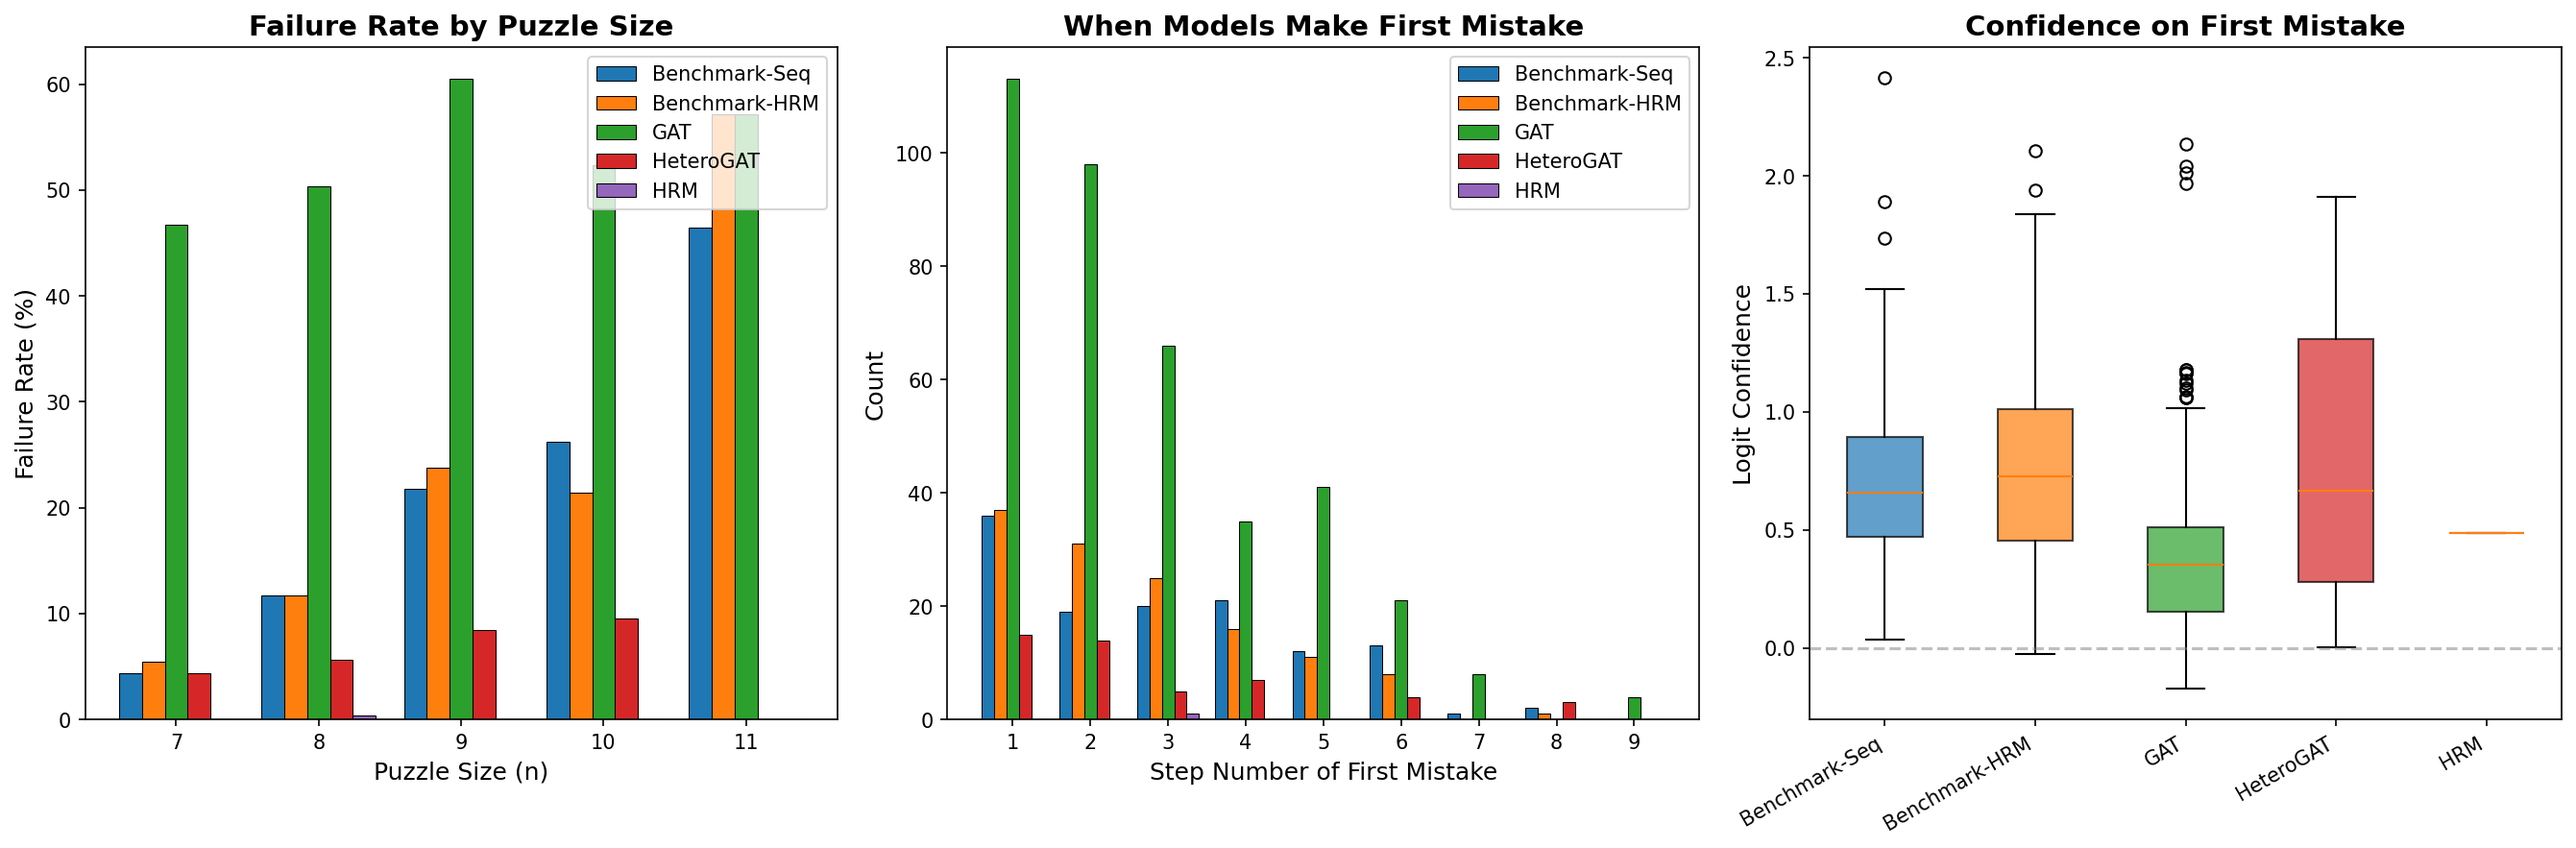
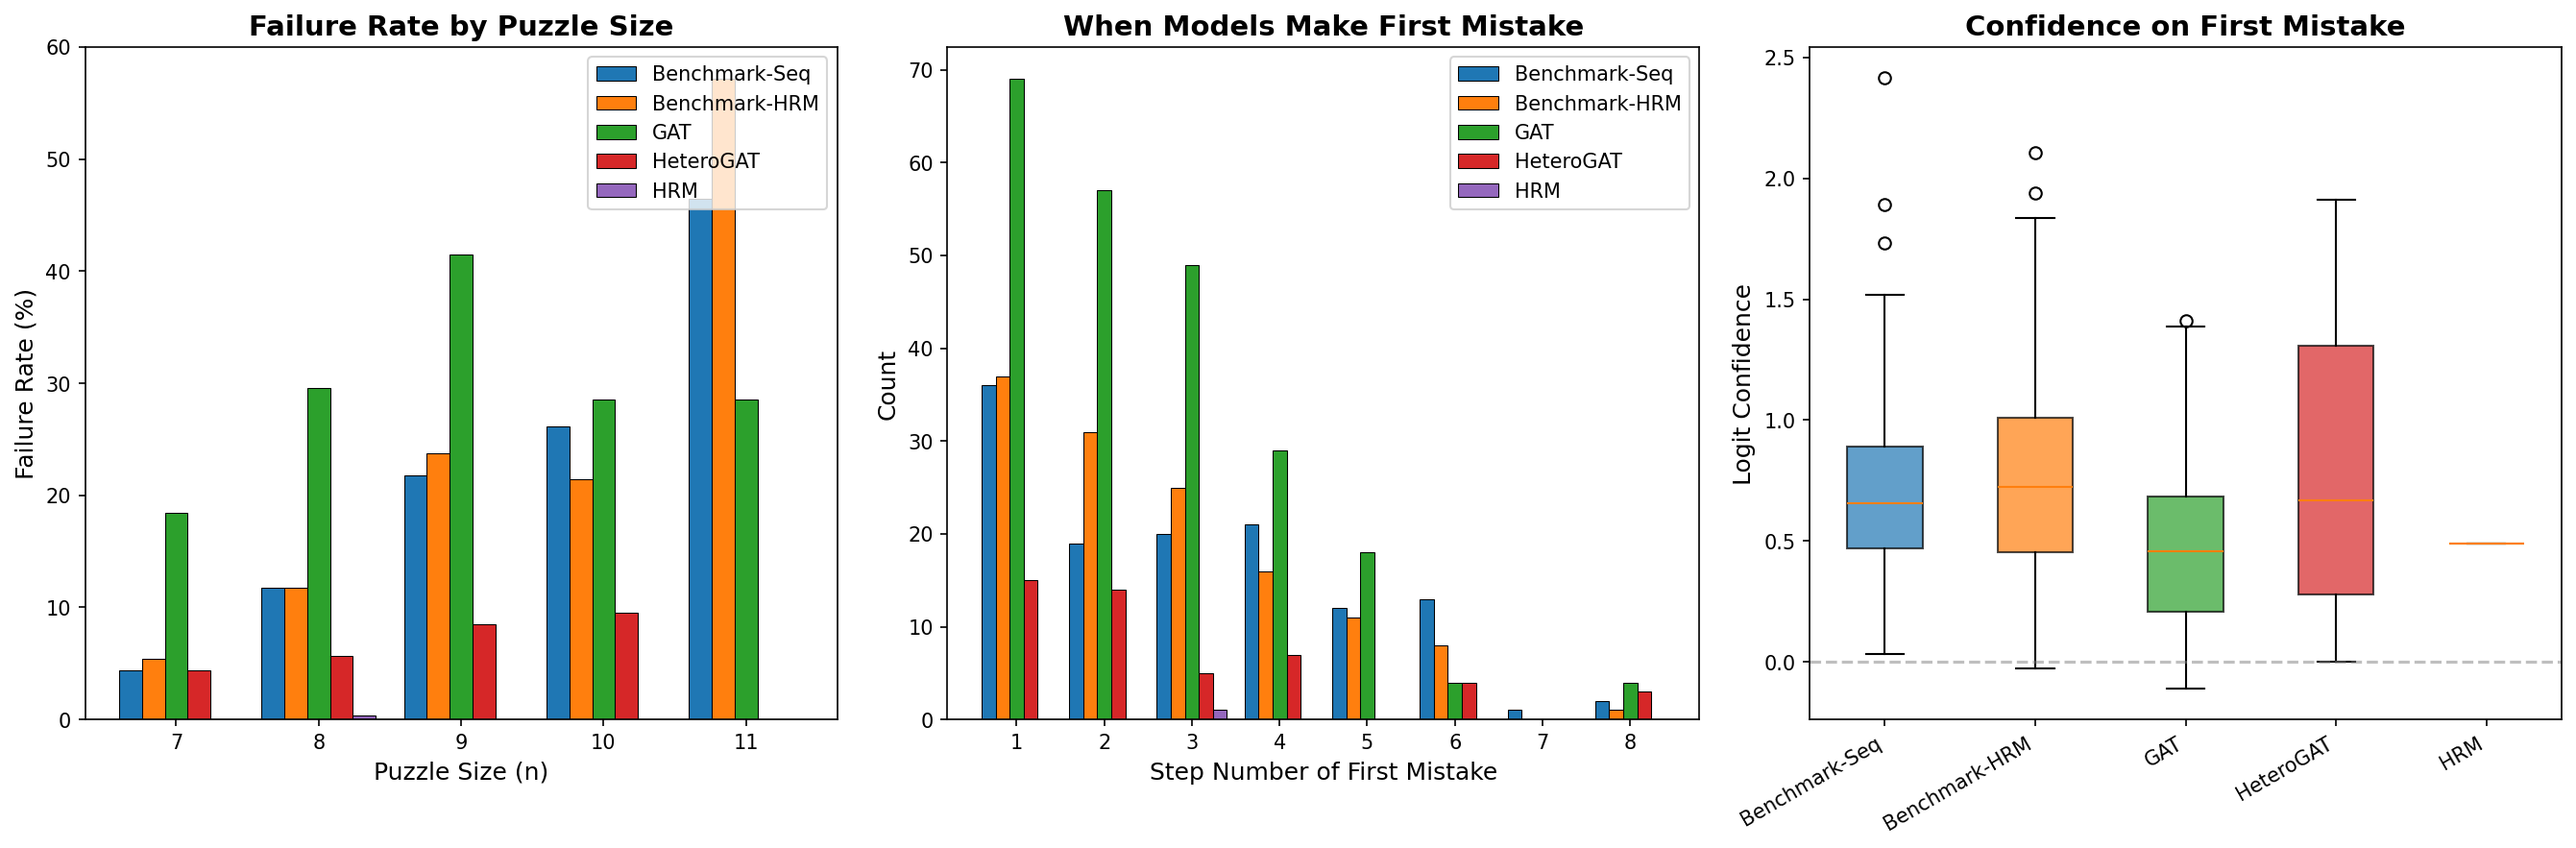
quick ablation fixes

diff --git a/scripts/ablation.py b/scripts/ablation.py
@@ -47,6 +47,8 @@ SHARED_CONFIG = {
     't_micro': 2,
 }
 
+# GAT is scaled to hidden_dim=192, layer_count=10 (~340K params) so the
+# GAT vs HeteroGAT comparison isolates architectural choice rather than capacity.
 PER_MODEL_OVERRIDES = {
     'gat': {'hidden_dim': 192, 'layer_count': 10},
 }

diff --git a/writeup.md b/writeup.md
@@ -95,7 +95,7 @@ The core challenge is distinguishing Type 2 from Type 3. Both look identical fro
 
 The first model used standard Graph Attention Networks (GAT) over a homogeneous graph. All constraint edges were merged into a single edge type, and the model learned attention-weighted message passing between connected cells.
 
-This established the basic approach. The GAT has no mechanisms to decipher different edge types as separate signals; a row constraint violation and a region constraint violation produce the same attention pattern, making it harder for the model to learn specialized reasoning for each. Error analysis, like the case below, suggests the model is confined to basic single-step avoidance of Type 1 errors, with little capacity to anticipate Type 2 failures. Accordingly performance is quite poor, the model achieved 76% F1 on single-state prediction and solved only 45% of puzzles end-to-end. An example failure puzzle is shown below.
+This established the basic approach. The GAT has no mechanisms to decipher different edge types as separate signals; a row constraint violation and a region constraint violation produce the same attention pattern, making it harder for the model to learn specialized reasoning for each. Error analysis, like the case below, suggests the model is confined to basic single-step avoidance of Type 1 errors, with little capacity to anticipate Type 2 failures. Accordingly performance is quite poor, the model achieved 86% F1 on single-state prediction and solved only 68.4% of puzzles end-to-end. An example failure puzzle is shown below.
 
 ![GAT Failure](images/GAT_failure.png)
 
@@ -176,7 +176,7 @@ To validate that architectural choices matter, I trained all models under contro
 
 | Model | Parameters | Single-State F1 | Validation Set Full Solve Rate |
 |-------|------------|-----------------|-----------------|
-| GAT | 86K | 76.6% | 45.3% |
+| GAT | 340K | 86.0% | 68.4% |
 | HeteroGAT | 445K | 96.0% | 91.0% |
 | Ablation HRM | 359K | 99.5% | 97.9% |
 | Benchmark HRM | 446K | 92.9% | 81.5% |
@@ -193,13 +193,15 @@ The failure cases embedded in each model's section above illustrate what goes wr
 
 ![Failure statistics across models on the validation set](images/failure_statistics_val.png)
 
-The GAT fails early and often: 46% solve rate on the validation set, median first-mistake step of 2, and low confidence on its errors (median logit 0.35). This is a model that struggles broadly. It cannot reliably distinguish constraint types, so errors are spread across the solve sequence and the model often "knows" it's uncertain.
+The GAT fails early and often: 68.4% solve rate on the validation set, median first-mistake step of 2, and low confidence on its errors (median logit 0.35). This is a model that struggles broadly. It cannot reliably distinguish constraint types, so errors are spread across the solve sequence and the model often "knows" it's uncertain.
 
 The HeteroGAT fails less frequently (93% solve rate) and its errors shift later in the sequence (median first-mistake step of 2, but with a higher IQR ceiling). When it does fail, it tends to be more confident in its mistakes (median logit 0.67). This pattern makes sense: constraint-specific attention handles Type 1 violations well, so the model rarely fails on trivially constrained cells. Its failures come from Type 2 placements, cells that look locally legal but cause global contradictions, and the model's confidence reflects that these cells genuinely do satisfy all local constraints.
 
 The benchmark models show an interesting split. Benchmark Sequential fails at a median step of 3 with moderate confidence (0.66). Benchmark HRM fails significantly earlier: median step 2 on the validation set, and median step 1 on the test set. It's worth noting that the benchmark HRM is a simplified implementation, not a faithful reproduction of the original HRM architecture. A more complete reproduction with deeper modules, proper training tricks, and more parameters would likely perform better. But that's partly the point: graph convolutions in the L-module appear to buy significant parameter efficiency for this problem. The constraint relationships that the transformer L-module must learn from position encodings are handed to the graph L-module for free via edges, which means the graph variant can achieve strong local reasoning with far fewer parameters.
 
 The HRM fails on exactly one validation puzzle, at step 3 with a logit of 0.49, notably below its typical confidence for correct placements. The model is close to uncertain on the placement it gets wrong, which suggests it's near the boundary of what it can resolve rather than confidently incorrect.
+
+The failure rate by puzzle size chart reveals an additional pattern worth noting. The two benchmark models, both relying on positional encodings rather than explicit graph edges, show a sharp increase in failure rate at 10x10 and especially 11x11. The HeteroGAT and HRM's failure rate are less elastic to increasing board size, especially the HRM. This is likely not coincidental given that 10x10 and 11x11 boards together account for only ~12.5% of training states (see Training Set Size Distribution in the Appendix). A model that must infer constraint relationships from position alone is implicitly dependent on having seen enough examples at each board size to generalize those patterns. The graph-based L-module sidesteps this: constraint edges are defined structurally and are invariant to board size, so the graph model's edge-based reasoning transfers to larger boards without the same need for additional examples, suggesting stronger generalization across sizes.
 
 
 # Solver Comparison
@@ -262,13 +264,26 @@ The main solver comparison uses the 128-puzzle test set. Results on the 716-puzz
 | OR-Tools CP-SAT | 100% | 7.39 ms | 4.7 | 0.2 |
 | Neural (HRM) | 99.9% | 99.49 ms | NA | NA |
 
+## Training Set Size Distribution
+
+The following distribution covers the state-based training set (StateTrainingSet.json) only and does not include the additional 10,000 state-0 puzzles concatenated during training.
+
+| Size  | Count   | % of Training States |
+|-------|---------|----------------------|
+| 7x7   | 42,756  | 12.7%                |
+| 8x8   | 131,104 | 38.9%                |
+| 9x9   | 120,564 | 35.8%                |
+| 10x10 | 34,640  | 10.3%                |
+| 11x11 | 7,612   | 2.3%                 |
+| Total | 336,676 |                      |
+
 ## Failure Statistics: Test Set
 
 The failure statistics section discusses val set patterns. Test set results (128 official LinkedIn puzzles) are shown below. HRM achieves 100% on the test set and has no failure statistics to report.
 
 | Model | Accuracy | First Mistake Step (Median [IQR]) | First Mistake Logit (Median [IQR]) |
 |-------|----------|----------------------------------|-----------------------------------|
-| GAT | 59.4% (76/128) | 2.0 [1.0, 4.0] | 0.26 [0.03, 0.47] |
+| GAT | 70.3% (90/128) | 2.0 [1.0, 3.8] | 0.28 [0.10, 0.46] |
 | HeteroGAT | 95.3% (122/128) | 3.5 [2.2, 4.0] | 0.36 [0.26, 0.80] |
 | Benchmark HRM | 85.2% (109/128) | 1.0 [1.0, 3.5] | 0.61 [0.49, 0.93] |
 | Benchmark Sequential | 88.3% (113/128) | 4.0 [2.0, 5.0] | 0.70 [0.64, 0.89] |

diff --git a/README.md b/README.md
@@ -58,7 +58,7 @@ The neural model makes zero failed guesses because it never backtracks — every
 
 | Model | Parameters | Single-State F1 | Validation Set Full Solve Rate |
 |-------|------------|-----------------|--------------------------------|
-| GAT | 86K | 76.6% | 45.3% |
+| GAT | 340K | 86.0% | 68.4% |
 | HeteroGAT | 445K | 96.0% | 91.0% |
 | Ablation HRM | 359K | 99.5% | 97.9% |
 | Benchmark HRM | 446K | 92.9% | 81.5% |
